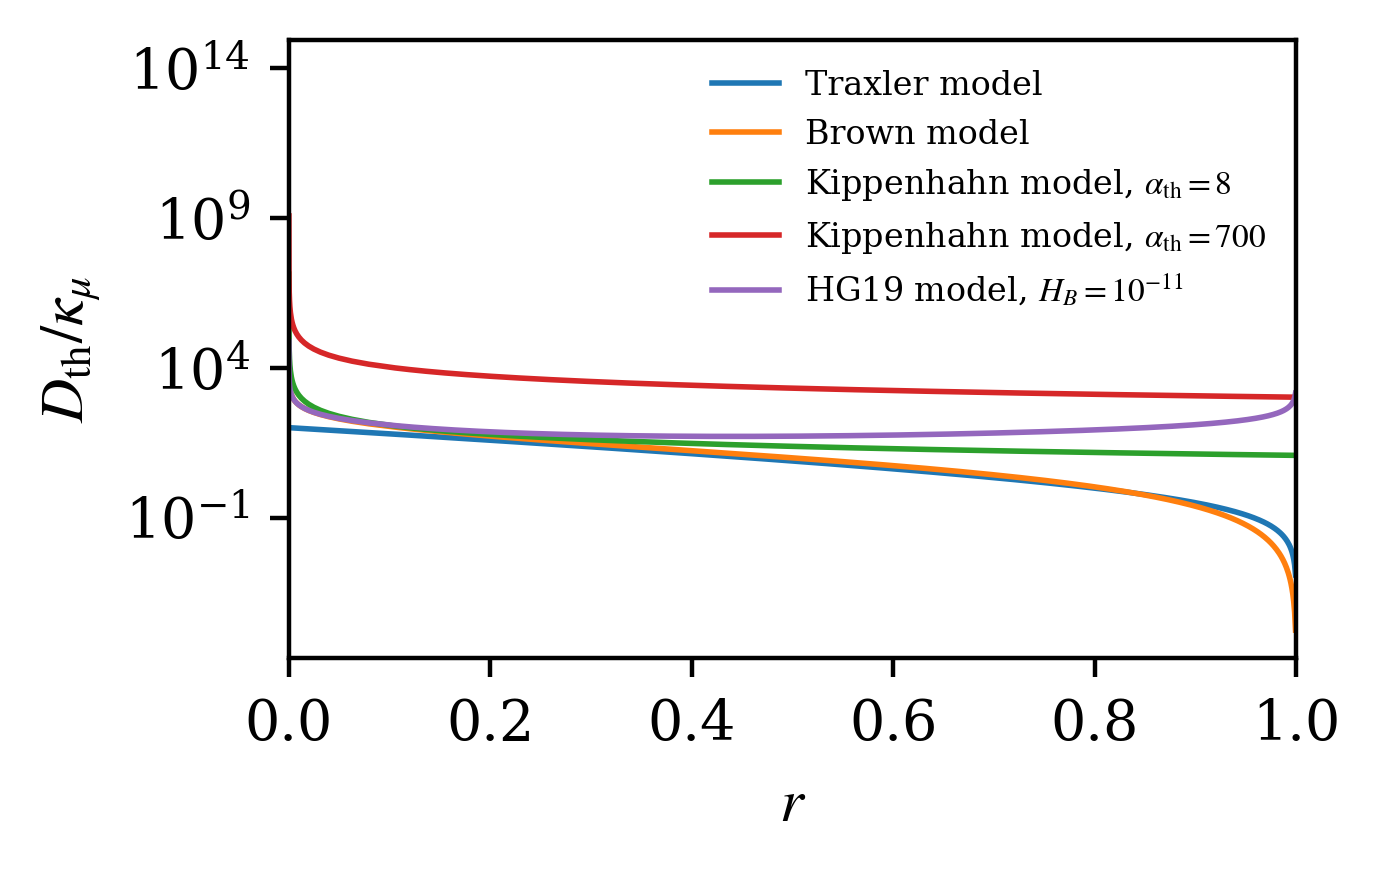
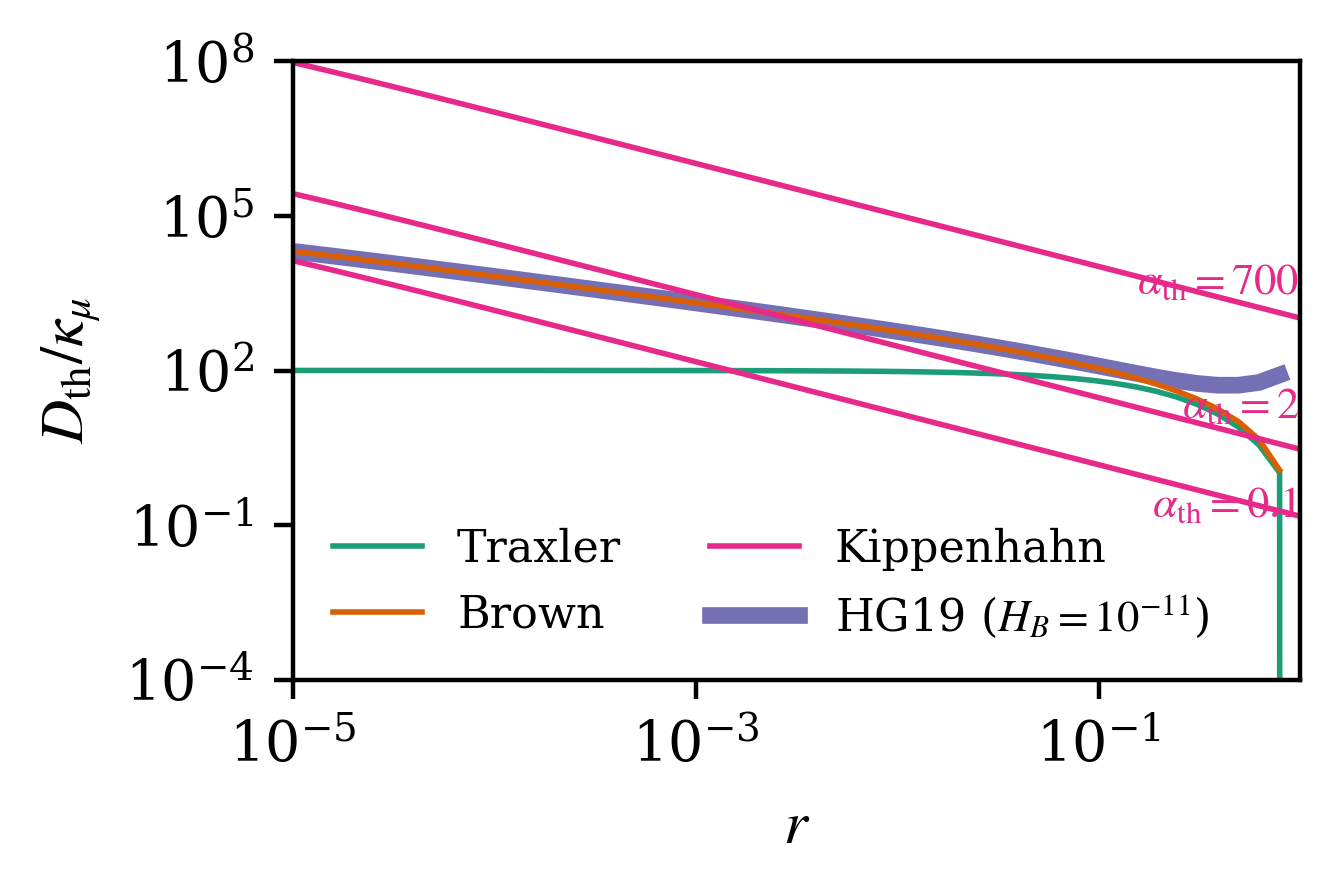
Various updates to mixing prescription figure

diff --git a/figures/Nu_R0_model_comparison.py b/figures/Nu_R0_model_comparison.py
@@ -13,6 +13,10 @@ def rfromR(R0, tau):
     return (R0 - 1.0) / (-1.0 + 1.0 / tau)
 
 
+def Rfromr(r, tau):
+    return 1.0 + r * (-1.0 + 1.0 / tau)
+
+
 def lamguess(pr, tau, R0):
     """
     Guesses lamda_FGM (growth rate of the fastest-growing mode) according to Brown et al. 2013 Appendix B
@@ -233,11 +237,16 @@ def NuC_Kippenhahn_model(tau, R0, alpha_th):
 Pr = 1e-6
 tau = 1e-6
 # Do we want to plot Nu vs R0 or r?
-R0s = np.concatenate((np.logspace(-5, np.log10(0.1/tau), 100), np.linspace(0.1/tau, 1/tau, 1000, endpoint=False)))
+# R0s = np.concatenate((np.logspace(-5, np.log10(0.1/tau), 100), np.linspace(0.1/tau, 1/tau, 1000, endpoint=False)))
+rs = np.logspace(-5, 0)
+R0s = Rfromr(rs, tau)
+
 NuC_Traxler = NuC_Traxler_model(Pr, tau, R0s)
 NuC_Brown = np.array([NuC_Brown_model(Pr, tau, r0) for r0 in R0s])
-NuC_Kippenhahn_Cp1 = NuC_Kippenhahn_model(tau, R0s, 8.0)
-NuC_Kippenhahn_Cp2 = NuC_Kippenhahn_model(tau, R0s, 700)
+NuC_Kippenhahn_Cp1 = NuC_Kippenhahn_model(tau, R0s, 0.1)
+NuC_Kippenhahn_Cp2 = NuC_Kippenhahn_model(tau, R0s, 2.0)
+# NuC_Kippenhahn_Cp3 = NuC_Kippenhahn_model(tau, R0s, 80.0)
+NuC_Kippenhahn_Cp4 = NuC_Kippenhahn_model(tau, R0s, 700.0)
 
 HB1 = 1e-11
 HB2 = 1.0
@@ -253,25 +262,29 @@ for i in range(len(wfs_HG19_HB1)):
 golden_ratio = (1+np.sqrt(5))/2
 figure = plt.figure(figsize=(3.25, 3.25/golden_ratio))
 
-rs = rfromR(R0s, tau)
+#rs = rfromR(R0s, tau)
 #plt.semilogy(R0s, NuC_Traxler-1, label='Traxler model')
 #plt.semilogy(R0s, NuC_Brown-1, label='Brown model')
 #plt.semilogy(R0s, NuC_Kippenhahn_Cp1-1, label=r'Kippenhahn model, $\alpha_{\rm{th}} = 8$')
 #plt.semilogy(R0s, NuC_Kippenhahn_Cp2-1, label=r'Kippenhahn model, $\alpha_{\rm{th}} = 700$')
 #plt.xlim((10.0, 1.0/tau))
-plt.semilogy(rs, NuC_Traxler-1, c=Dark2_4.mpl_colors[0], label='Traxler')
-plt.semilogy(rs, NuC_Brown-1,  c=Dark2_4.mpl_colors[1], label='Brown')
-plt.semilogy(rs, NuC_Kippenhahn_Cp1-1, c=Dark2_4.mpl_colors[3], label=r'Kippenhahn')
-plt.semilogy(rs, NuC_Kippenhahn_Cp2-1, c=Dark2_4.mpl_colors[3])
-plt.semilogy(rs, NuCs_HG19_HB1-1, c=Dark2_4.mpl_colors[2], label=r'HG19 ($H_B = 10^{-11}$)', lw=3, zorder=1)
+plt.loglog(rs, NuC_Traxler-1, c=Dark2_4.mpl_colors[0], label='Traxler')
+plt.loglog(rs, NuC_Brown-1,  c=Dark2_4.mpl_colors[1], label='Brown')
+plt.loglog(rs, NuC_Kippenhahn_Cp1-1, c=Dark2_4.mpl_colors[3], label=r'Kippenhahn')
+plt.loglog(rs, NuC_Kippenhahn_Cp2-1, c=Dark2_4.mpl_colors[3])
+# plt.semilogy(rs, NuC_Kippenhahn_Cp3-1, c=Dark2_4.mpl_colors[3])
+plt.loglog(rs, NuC_Kippenhahn_Cp4-1, c=Dark2_4.mpl_colors[3])
+plt.loglog(rs, NuCs_HG19_HB1-1, c=Dark2_4.mpl_colors[2], label=r'HG19 ($H_B = 10^{-11}$)', lw=3, zorder=1)
 #plt.semilogy(rs, NuCs_HG19_HB2-1, label=r'HG19 model, $H_B = 1$')
-plt.xlim(0, 1)
+plt.xlim(1e-5, 1)
 plt.xlabel(r'$r$')
 plt.ylabel(r'$D_{\rm{th}}/\kappa_\mu$')
 plt.ylim(1e-4, 1e8)
 plt.legend(fontsize=8, frameon=False, ncol=2)
-plt.text(x=0.99, y=NuC_Kippenhahn_Cp2[-1]*3, s=r'$\alpha_{\rm{th}} = 700$', color=Dark2_4.mpl_colors[3], fontsize=8, ha='right')
-plt.text(x=0.99, y=NuC_Kippenhahn_Cp1[-1]/8, s=r'$\alpha_{\rm{th}} = 8$', color=Dark2_4.mpl_colors[3], fontsize=8, ha='right')
+plt.text(x=0.99, y=NuC_Kippenhahn_Cp4[-1]*3, s=r'$\alpha_{\rm{th}} = 700$', color=Dark2_4.mpl_colors[3], fontsize=8, ha='right')
+# plt.text(x=0.99, y=NuC_Kippenhahn_Cp3[-1]*3, s=r'$\alpha_{\rm{th}} = 80$', color=Dark2_4.mpl_colors[3], fontsize=8, ha='right')
+plt.text(x=0.99, y=NuC_Kippenhahn_Cp2[-1]*3, s=r'$\alpha_{\rm{th}} = 2$', color=Dark2_4.mpl_colors[3], fontsize=8, ha='right')
+plt.text(x=0.99, y=NuC_Kippenhahn_Cp1[-1]/8, s=r'$\alpha_{\rm{th}} = 0.1$', color=Dark2_4.mpl_colors[3], fontsize=8, ha='right')
 plt.savefig('Nu_models_comparison.pdf', bbox_inches='tight', dpi=400)
 plt.savefig('Nu_models_comparison.png', bbox_inches='tight', dpi=400)
-#plt.show()
+plt.show()
